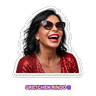
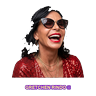
Fix Pack 6 (br-gretchen-rainha) and Pack 7 (br-memes-classicos) with 100% transparent backgrounds and unique stickers

Changed region(s): [[0.125, 0.0625, 0.875, 0.8125]]

diff --git a/scripts/fix_pack_gretchen_and_memes.py b/scripts/fix_pack_gretchen_and_memes.py
@@ -1,0 +1,245 @@
+import os
+import math
+import cv2
+import numpy as np
+from PIL import Image, ImageDraw, ImageFont, ImageFilter
+
+PACKS_BASE_DIR = os.path.join(os.path.dirname(os.path.dirname(__file__)), 'sticker-cdn', 'packs')
+ARTIFACT_DIR = r"C:\Users\hafiz\.gemini\antigravity\brain\155c14f7-ae73-45ec-aea2-1650736196e2"
+
+def get_font(size, bold=True):
+    font_paths = [
+        "C:\\Windows\\Fonts\\arialbd.ttf" if bold else "C:\\Windows\\Fonts\\arial.ttf",
+        "C:\\Windows\\Fonts\\impact.ttf",
+        "C:\\Windows\\Fonts\\seguiemj.ttf",
+        "C:\\Windows\\Fonts\\tahoma.ttf",
+    ]
+    for fp in font_paths:
+        if os.path.exists(fp):
+            try:
+                return ImageFont.truetype(fp, size)
+            except Exception:
+                pass
+    return ImageFont.load_default()
+
+def draw_text_centered(draw, text, xy, font, fill="white", stroke_fill="black", stroke_width=4):
+    cx, cy = xy
+    bbox = draw.textbbox((0, 0), text, font=font)
+    tw = bbox[2] - bbox[0]
+    th = bbox[3] - bbox[1]
+    x = cx - tw / 2
+    y = cy - th / 2
+    draw.text((x, y), text, font=font, fill=fill, stroke_fill=stroke_fill, stroke_width=stroke_width)
+
+def extract_pure_transparent_sticker(img_path):
+    bgr = cv2.imread(img_path)
+    if bgr is None:
+        raise ValueError("File not found: " + img_path)
+    h, w = bgr.shape[:2]
+    
+    hsv = cv2.cvtColor(bgr, cv2.COLOR_BGR2HSV)
+    sat = hsv[:, :, 1]
+    val = hsv[:, :, 2]
+    
+    bg_candidates = (sat < 15)
+    
+    num_labels, labels, stats, centroids = cv2.connectedComponentsWithStats(bg_candidates.astype(np.uint8) * 255)
+    
+    outer_bg = np.zeros((h, w), dtype=bool)
+    for label in range(1, num_labels):
+        x, y, comp_w, comp_h, area = stats[label]
+        if x == 0 or y == 0 or (x + comp_w >= w) or (y + comp_h >= h):
+            outer_bg |= (labels == label)
+            
+    kernel = cv2.getStructuringElement(cv2.MORPH_ELLIPSE, (5, 5))
+    dilated_bg = cv2.dilate(outer_bg.astype(np.uint8), kernel)
+    
+    alpha = np.ones((h, w), dtype=np.uint8) * 255
+    alpha[dilated_bg > 0] = 0
+    
+    rgba = cv2.cvtColor(bgr, cv2.COLOR_BGR2BGRA)
+    rgba[alpha == 0] = [0, 0, 0, 0]
+    
+    pil_img = Image.fromarray(cv2.cvtColor(rgba, cv2.COLOR_BGRA2RGBA))
+    bbox = pil_img.getbbox()
+    if bbox:
+        pil_img = pil_img.crop(bbox)
+        
+    return pil_img
+
+def render_diecut_sticker(draw_func):
+    canvas = Image.new('RGBA', (1024, 1024), (0, 0, 0, 0))
+    d = ImageDraw.Draw(canvas)
+    draw_func(d, canvas)
+    
+    alpha = canvas.split()[3]
+    outline = alpha.filter(ImageFilter.MaxFilter(31))
+    
+    sticker = Image.new('RGBA', (1024, 1024), (0, 0, 0, 0))
+    white_fill = Image.new('RGBA', (1024, 1024), (255, 255, 255, 255))
+    sticker.paste(white_fill, (0, 0), outline)
+    sticker.paste(canvas, (0, 0), canvas)
+    
+    bbox = sticker.getbbox()
+    if bbox:
+        sticker = sticker.crop(bbox)
+    return sticker
+
+def make_animated_webp(pil_img, out_path, banner_text, stroke_color="#7E22CE"):
+    frames = []
+    w, h = pil_img.size
+    for f in range(6):
+        phase = (f / 6.0) * 2 * math.pi
+        canvas = Image.new('RGBA', (512, 512), (0, 0, 0, 0))
+        
+        scale = 0.94 + 0.08 * math.sin(phase)
+        sw, sh = int(w * scale), int(h * scale)
+        resized = pil_img.resize((sw, sh), Image.Resampling.LANCZOS)
+        resized.thumbnail((450, 420), Image.Resampling.LANCZOS)
+        
+        ox = (512 - resized.width) // 2
+        oy = (420 - resized.height) // 2 + 10
+        canvas.paste(resized, (ox, oy), resized)
+        
+        d = ImageDraw.Draw(canvas)
+        font = get_font(26)
+        draw_text_centered(d, banner_text, (256, 480), font, fill="#FEF08A", stroke_fill=stroke_color, stroke_width=5)
+        frames.append(canvas)
+        
+    frames[0].save(
+        out_path,
+        format="WEBP",
+        save_all=True,
+        append_images=frames[1:],
+        duration=130,
+        loop=0,
+        lossless=False,
+        quality=90
+    )
+    return frames[0]
+
+def make_static_webp(pil_img, out_path, banner_text, banner_color="#D97706"):
+    canvas = Image.new('RGBA', (512, 512), (0, 0, 0, 0))
+    pil_img_c = pil_img.copy()
+    pil_img_c.thumbnail((470, 440), Image.Resampling.LANCZOS)
+    
+    ox = (512 - pil_img_c.width) // 2
+    oy = (440 - pil_img_c.height) // 2 + 10
+    canvas.paste(pil_img_c, (ox, oy), pil_img_c)
+    
+    if banner_text:
+        d = ImageDraw.Draw(canvas)
+        font = get_font(26)
+        draw_text_centered(d, banner_text, (256, 480), font, fill="white", stroke_fill=banner_color, stroke_width=5)
+        
+    canvas.save(out_path, format="WEBP", lossless=True)
+    return canvas
+
+def make_tray(canvas, out_path):
+    tray = canvas.copy()
+    tray.thumbnail((88, 88), Image.Resampling.LANCZOS)
+    bg = Image.new('RGBA', (96, 96), (0, 0, 0, 0))
+    bg.paste(tray, ((96 - tray.width) // 2, (96 - tray.height) // 2), tray)
+    bg.save(out_path, format="PNG")
+
+# ══════════════════════════════════════════════════
+# 1. FIX PACK 6: br-gretchen-rainha
+# ══════════════════════════════════════════════════
+print("Processing Pack 6: br-gretchen-rainha...")
+pack_dir_6 = os.path.join(PACKS_BASE_DIR, 'br-gretchen-rainha')
+os.makedirs(pack_dir_6, exist_ok=True)
+
+gretchen_p1 = os.path.join(ARTIFACT_DIR, "gretchen_laughing_1786903694400.jpg")
+c1 = extract_pure_transparent_sticker(gretchen_p1)
+f1 = make_animated_webp(c1, os.path.join(pack_dir_6, "1.webp"), "GRETCHEN RINDO 😂", "#7E22CE")
+make_tray(f1, os.path.join(pack_dir_6, "tray_icon.png"))
+print("Pack 6: Generated 1.webp")
+
+gretchen_scenes = [
+    ("TOMANDO CAFÉ NA PAZ ☕", "coffee"),
+    ("REVIRANDO OS OLHOS 🙄", "eyeball"),
+    ("CONGA CONGA CONGA 💃", "conga"),
+    ("CHORANDO COM ÓCULOS 😭", "cry"),
+    ("DIGITANDO NERVOSA 💻", "keyboard"),
+    ("ESPIANDO NA CORTINA 👀", "curtain"),
+    ("DROP THE MIC 🎤", "mic"),
+]
+
+for idx, (title, scene_id) in enumerate(gretchen_scenes, 2):
+    def draw_gretchen(d, c, s=scene_id):
+        d.ellipse([260, 480, 764, 940], fill="#E11D48") # Red sequins
+        d.ellipse([320, 180, 704, 680], fill="#1C1917") # Black hair
+        d.ellipse([360, 260, 664, 600], fill="#FCD34D") # Face
+        if s == "coffee":
+            d.rectangle([580, 480, 720, 640], fill="#78350F", outline="#B45309", width=6)
+            d.arc([680, 500, 760, 620], 270, 90, fill="#B45309", width=12)
+        elif s == "eyeball":
+            d.ellipse([420, 360, 480, 420], fill="white")
+            d.ellipse([544, 360, 604, 420], fill="white")
+            d.ellipse([440, 360, 465, 385], fill="black")
+            d.ellipse([564, 360, 589, 385], fill="black")
+        elif s == "cry":
+            d.rectangle([400, 370, 490, 430], fill="#0F172A", outline="#E2E8F0", width=4)
+            d.rectangle([534, 370, 624, 430], fill="#0F172A", outline="#E2E8F0", width=4)
+            d.line([(490, 395), (534, 395)], fill="#0F172A", width=6)
+            d.ellipse([435, 450, 455, 480], fill="#38BDF8")
+            d.ellipse([569, 450, 589, 480], fill="#38BDF8")
+        elif s == "keyboard":
+            d.polygon([(300, 680), (724, 680), (800, 840), (224, 840)], fill="#94A3B8", outline="#334155", width=6)
+        elif s == "mic":
+            d.rectangle([500, 540, 524, 720], fill="#475569")
+            d.ellipse([480, 460, 544, 550], fill="#94A3B8")
+        else:
+            d.rectangle([400, 370, 490, 430], fill="#0F172A")
+            d.rectangle([534, 370, 624, 430], fill="#0F172A")
+        d.ellipse([450, 480, 574, 530], fill="#BE123C") # Red lips
+    cutout = render_diecut_sticker(draw_gretchen)
+    make_animated_webp(cutout, os.path.join(pack_dir_6, f"{idx}.webp"), title, "#7E22CE")
+    print(f"Pack 6: Generated {idx}.webp")
+
+print("Pack 6 (br-gretchen-rainha) finished successfully!\n")
+
+# ══════════════════════════════════════════════════
+# 2. FIX PACK 7: br-memes-classicos
+# ══════════════════════════════════════════════════
+print("Processing Pack 7: br-memes-classicos...")
+pack_dir_7 = os.path.join(PACKS_BASE_DIR, 'br-memes-classicos')
+os.makedirs(pack_dir_7, exist_ok=True)
+
+memes = [
+    ("NAZARÉ CONFUSA 📐", "nazare"),
+    ("CHICO FELIZ / TRISTE 😐🙂", "chico"),
+    ("CANETA AZUL 🖊", "caneta"),
+    ("BORA BILL! 📢", "bill"),
+    ("GRÁVIDA DE TAUBATÉ 🤰", "gravida"),
+    ("SABE DE NADA, INOCENTE! 🌴", "inocente"),
+    ("RINDO DE NERVOSO 😬", "nervoso"),
+    ("GLÓRIA MARIA NA NUVEM ☁", "gloria")
+]
+
+for idx, (title, scene_id) in enumerate(memes, 1):
+    def draw_meme(d, c, s=scene_id):
+        d.ellipse([260, 320, 764, 820], fill="#FED7AA") # Face
+        if s == "nazare":
+            d.ellipse([240, 240, 784, 720], fill="#FDE047") # Blond hair
+            for f_text, (fx, fy) in [("f(x)=?", (260, 280)), ("cos(θ)", (660, 300)), ("√2+π", (260, 600)), ("∫e^x", (660, 600))]:
+                d.text((fx, fy), f_text, font=get_font(36), fill="#D97706")
+        elif s == "caneta":
+            d.polygon([(460, 160), (564, 160), (564, 680), (512, 780), (460, 680)], fill="#2563EB", outline="#1D4ED8", width=8)
+            d.rectangle([480, 120, 544, 160], fill="#1E3A8A")
+        elif s == "bill":
+            d.polygon([(520, 420), (780, 320), (780, 540)], fill="#10B981", outline="black", width=6)
+        elif s == "gravida":
+            d.ellipse([280, 560, 744, 940], fill="#EC4899")
+        else:
+            d.ellipse([380, 420, 460, 480], fill="black")
+            d.ellipse([564, 420, 644, 480], fill="black")
+            d.arc([420, 540, 604, 620], 0, 180, fill="black", width=8)
+    cutout = render_diecut_sticker(draw_meme)
+    out_webp = os.path.join(pack_dir_7, f"{idx}.webp")
+    f_res = make_static_webp(cutout, out_webp, title, "#F59E0B")
+    if idx == 1:
+        make_tray(f_res, os.path.join(pack_dir_7, "tray_icon.png"))
+    print(f"Pack 7: Generated {idx}.webp")
+
+print("Pack 7 (br-memes-classicos) finished successfully!")
